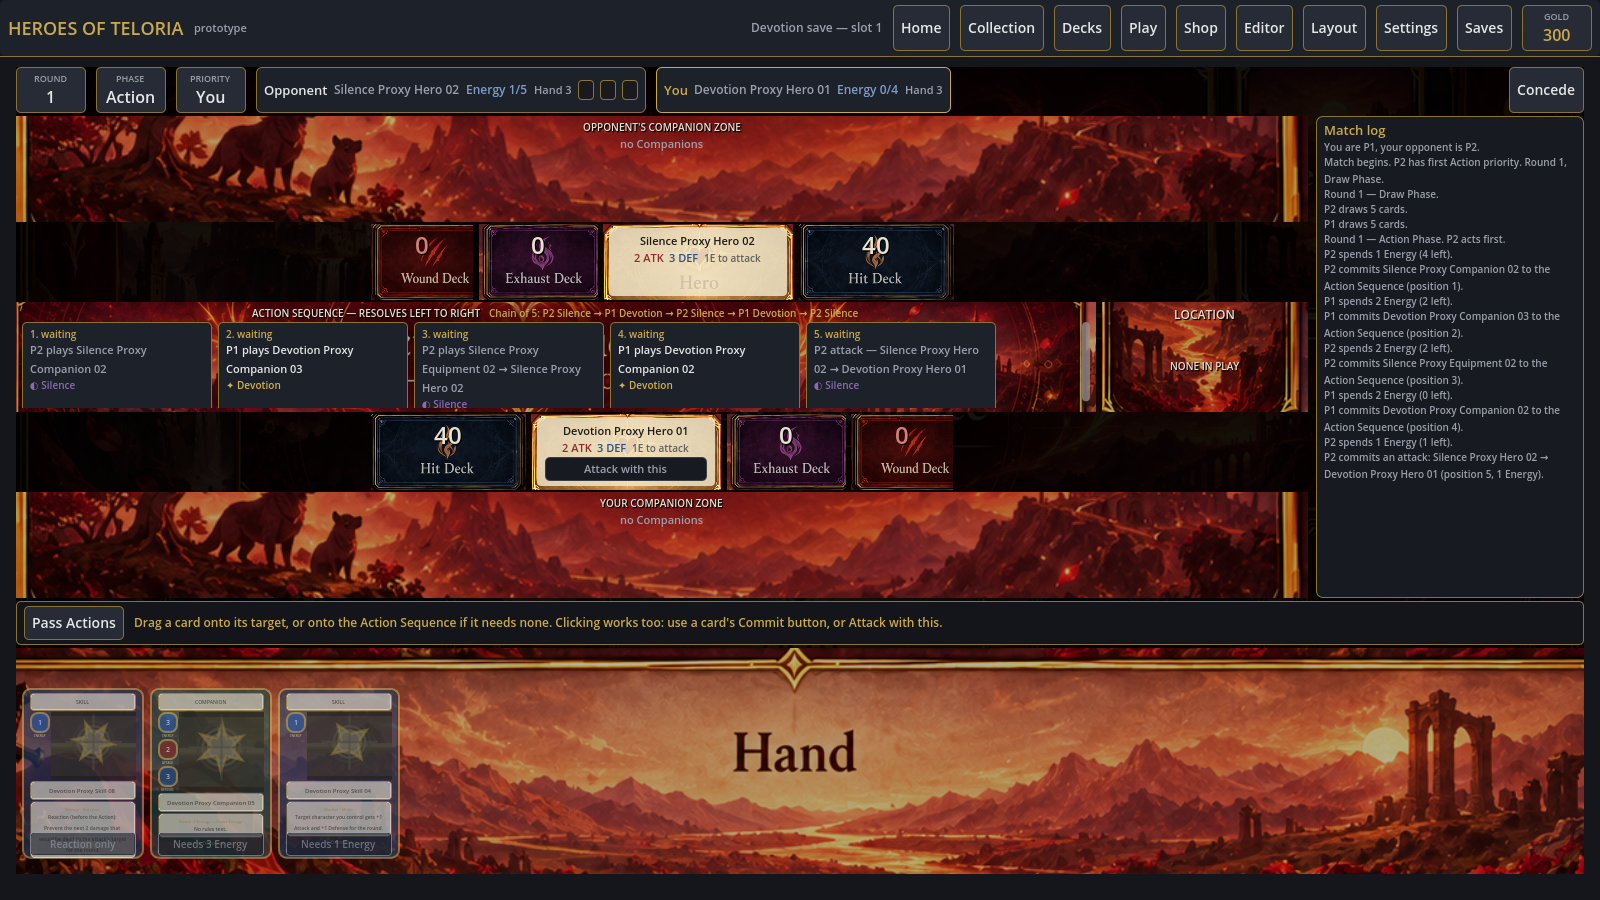
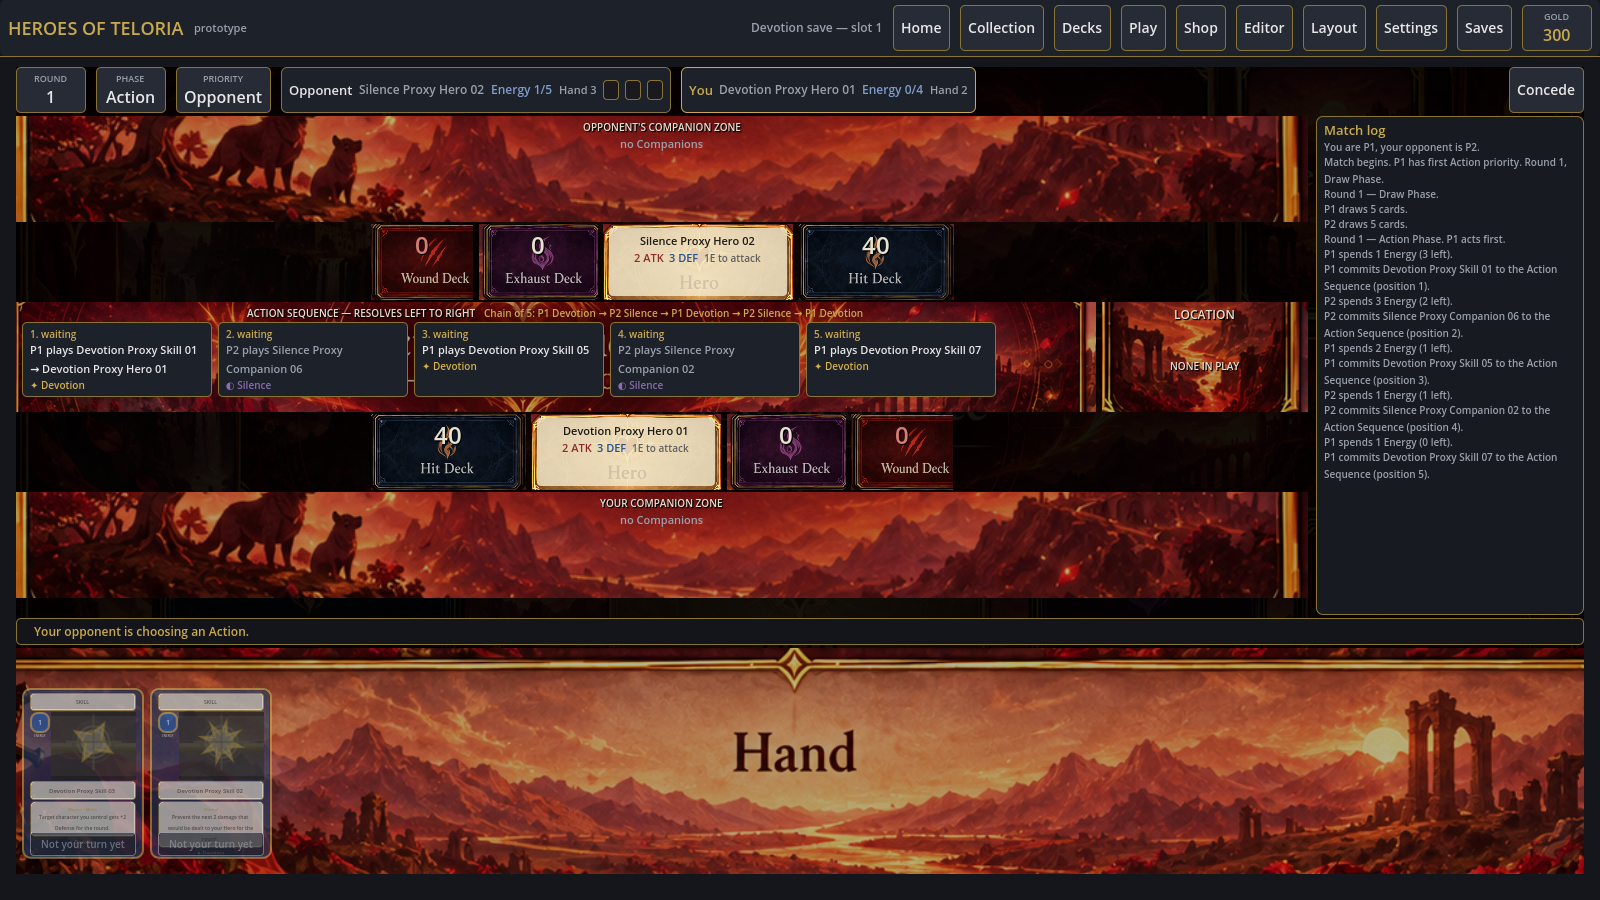
Add Burning Rush, and a bonus that waits for the next attack
PAS_SKILL_01 was the proxy "Passion Proxy Skill 01". It is now Burning Rush,
taken from the supplied card face: its cost, tags and Affinity read off the
card, its portrait cropped out of it, and its ability written as structured
data with the rules text generated from that.

The ability needed one new operation. `next_attack_bonus` leaves a bonus on the
match for the next attack that qualifies, which the first matching attack to
resolve claims and spends. It can be filtered by Affinity and scoped to either
side, it is claimed exactly once, and anything unclaimed lapses at Round End
with the rest of the round's temporary state rather than carrying over.

The bonus is added to the damage an attack deals, after Defense, not to the
attacker's Attack. An attack that would bounce off a tougher target for nothing
still lands the bonus. A bonus Defense could absorb would do nothing in exactly
the situations the card is played for, and the rules fixture pins that: two
2-Attack Companions swing into a 2-Defense Hero, both deal nothing, and the one
point that gets through is the bonus itself.

The fixture also pins that the Will Companion attacking in between does not
take a bonus filtered to Passion, that the bonus is claimed once rather than by
every attack after it, and that an unclaimed bonus lapses and says so.

Cropping the art turned up a trap worth recording: these windows have large
arched corners, so the sides sit further in near the top and bottom than at
[…]

diff --git a/docs/ADDING_CARDS.md b/docs/ADDING_CARDS.md
@@ -72,6 +72,12 @@ as a target. Those are all in `docs/EFFECT_SCHEMA.md` now and are available to
 any future card. That is the shape of a card that needs engine work: the
 vocabulary grows once, deliberately, and the card is then ordinary data.
 
+`PAS_SKILL_01` became Burning Rush, and needed the vocabulary extended once
+more: `next_attack_bonus` leaves a bonus for the next attack that qualifies,
+claimed once and lapsing at Round End if nothing claims it. Its art came from a
+finished card face rather than a blank template, which is fine — the portrait
+is cropped out of it the same way.
+
 ## What I will tell you back
 
 For each card I will report:
@@ -145,10 +151,20 @@ The crops in use, for reference:
 | --- | --- | --- |
 | Parfait | x 217–933, y 170–890 | `221 170 708 720` |
 | Sorbet | x 232–975, y 150–875 | `262 150 713 725` |
+| Burning Rush | x 178–950, y 174–880 (667 wide near the top) | `264 248 666 486` |
+
+Burning Rush is cut to the plain face's art area, which is wider than it is
+tall, rather than to a frame's window: Skills have no painted frame yet.
 
 Measure the edges at magnification. `tools/crop_art.gd` takes a `SCALE`
 argument for exactly this: crop a 40-pixel strip straddling an edge at 7x and
 the boundary between the painted border and the artwork is unmistakable.
+
+**Measure at the height the crop is actually taken from.** These windows have
+large arched corners, so the sides are further in near the top and bottom than
+they are at mid-height. Burning Rush's window is 772 wide across the middle but
+only 667 near the top, and a crop cut to the middle measurement caught the
+card's own blue frame in its upper corner.
 Eyeballing a full-size card face is not good enough — it put the window 26
 pixels out, which showed as a pale strip of empty frame down one side of every
 Hero.

diff --git a/docs/EFFECT_SCHEMA.md b/docs/EFFECT_SCHEMA.md
@@ -180,6 +180,7 @@ Twenty operations. Anything else fails validation.
 | `random_exhaust_from_hand` | `who`, `amount` | A random discard. |
 | `deploy_from_hand` | `who` | Put a Companion from hand into play. |
 | `choose_card_type` | `chooser` | That player names one of the six Card Types. The card remembers it for the round, and `chosen_type_card_resolved` reads it. |
+| `next_attack_bonus` | `amount`, `scope`, optional `affinity` | Leaves a bonus for the next attack that qualifies. Claimed once, by the first attack to resolve whose attacker matches, then gone. Unclaimed, it lapses at Round End. |
 
 **Energy**
 
@@ -258,6 +259,12 @@ forgotten at Round End with everything else that lasts a round. That is the
 Sorbet pattern — she names a Card Type when her attack resolves, and every
 Vigilance Companion her controller has grows each time a card of that type
 resolves afterwards — and it is pinned as a fixture too.
+
+`next_attack_bonus` is added to the damage an attack **deals**, after Defense
+has been subtracted, not to the attacker's Attack. An attack that would bounce
+off a tougher target for nothing still lands the bonus. That is deliberate:
+"deals 1 additional damage" is about what arrives, and a bonus that Defense
+could absorb would do nothing in exactly the situations it is played for.
 
 Avoid `stat_mod` or `prevent_damage` with `"duration": "round"` inside a
 `round_end` trigger: round-duration effects expire moments later in the same

diff --git a/docs/screens/README.md b/docs/screens/README.md
@@ -28,6 +28,7 @@ xvfb-run -a godot --path . --resolution 1440x900 --script tools/ui_drive.gd
 | `18_card_type.png` | Sorbet's Card Type choice, mid-resolution |
 | `19_layout.png` | The Layout screen, with a card's pieces boxed and editable |
 | `20_layers.png` | The same card with its artwork in front of the frame, then behind it |
+| `21_burning_rush.png` | Burning Rush, the first authored Skill |
 
 The battle screen's own artwork lives in `assets/board/`. `board_full.png` is
 the painted board; `tools/slice_board.gd` cuts the plates the screen uses out
